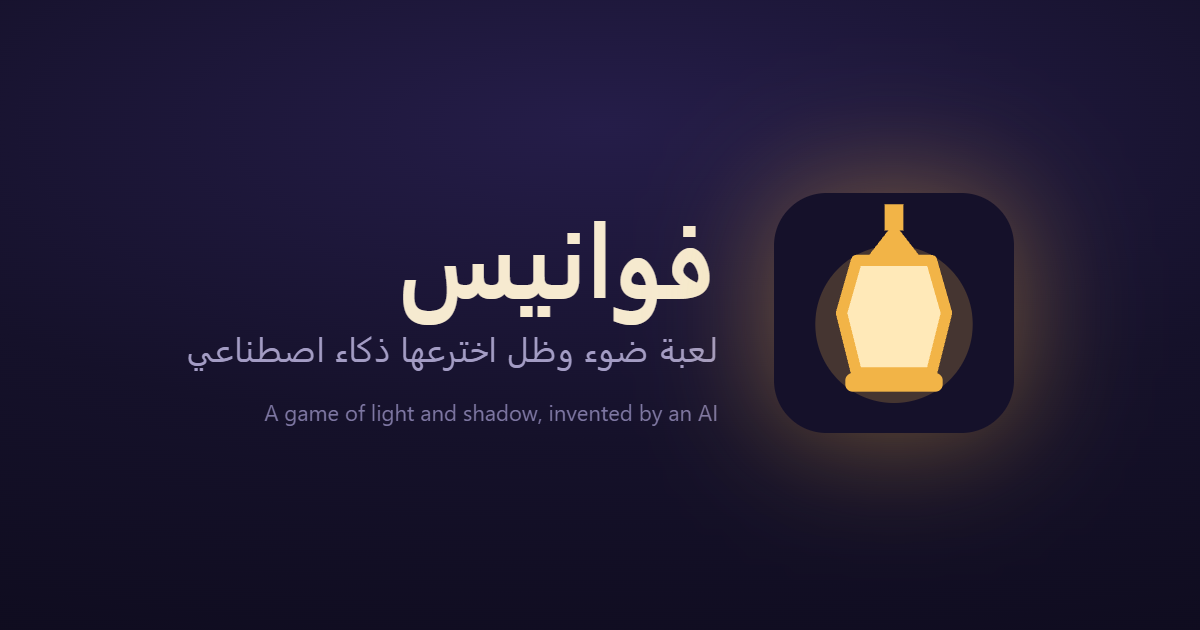
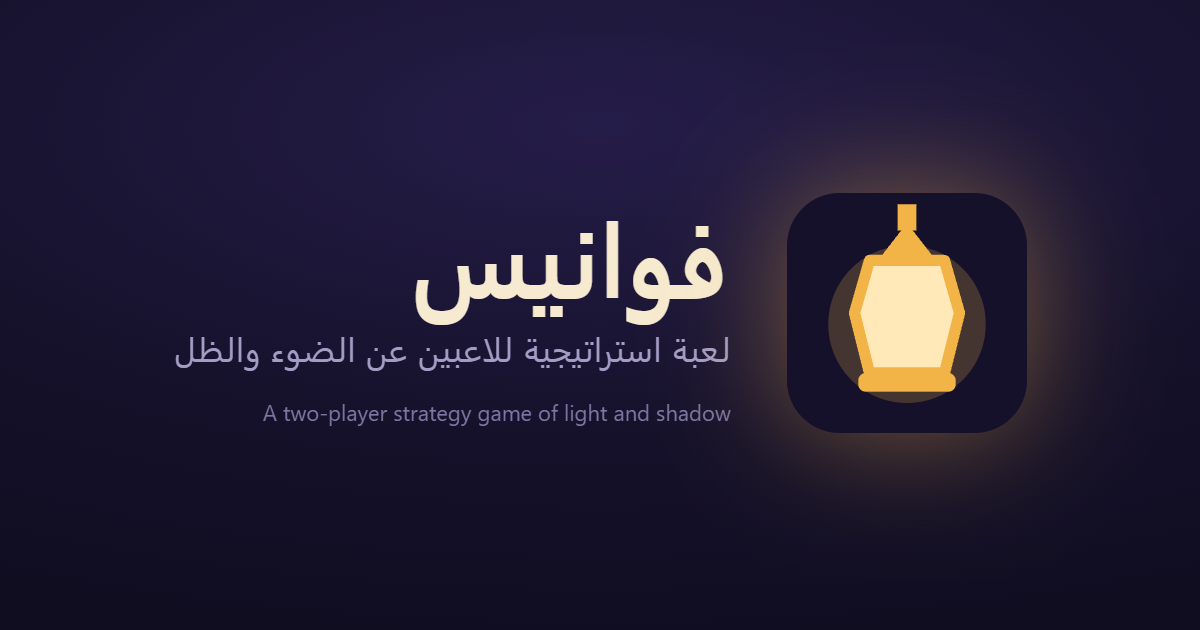
docs: correct Fawanees in-app authorship and metadata

diff --git a/pwa/index.html b/pwa/index.html
@@ -13,7 +13,7 @@
 <meta name="apple-mobile-web-app-title" content="فوانيس">
 <meta property="og:type" content="website">
 <meta property="og:title" content="فوانيس · Fawanees">
-<meta property="og:description" content="لعبة ضوء وظل اخترعها ذكاء اصطناعي · A game of light and shadow, invented by an AI">
+<meta property="og:description" content="لعبة استراتيجية للاعبين عن الضوء والظل · A two-player strategy game of light and shadow">
 <meta property="og:url" content="https://ahmed-r-z-adwan.github.io/fawanees/">
 <meta property="og:image" content="https://ahmed-r-z-adwan.github.io/fawanees/og.png">
 <meta property="og:image:width" content="1200">
@@ -160,7 +160,7 @@ canvas#learnBoard, canvas#puzzleBoard { width: 100%; aspect-ratio: 11 / 12; disp
 <body>
 <div class="app">
   <header>
-    <div class="brand"><h1 data-i18n="title">فوانيس</h1><p data-i18n="tagline">لعبة ضوء وظل اخترعها ذكاء اصطناعي</p></div>
+    <div class="brand"><h1 data-i18n="title">فوانيس</h1><p data-i18n="tagline">لعبة استراتيجية للاعبين عن الضوء والظل</p></div>
     <div class="top-actions">
       <button class="btn" id="btnLearn" data-i18n="learn">تعلّم</button>
       <button class="btn" id="btnPuzzle" data-i18n="puzzles">ألغاز</button>
@@ -206,7 +206,7 @@ canvas#learnBoard, canvas#puzzleBoard { width: 100%; aspect-ratio: 11 / 12; disp
       </div>
     </aside>
   </main>
-  <footer><span data-i18n="credit">صمّم القواعد ووازنها وبرمج الذكاء الاصطناعي: Claude من Anthropic. الفكرة والنشر: أحمد عدوان.</span> <a href="#" id="linkHow" data-i18n="how">كيف صُنعت؟</a></footer>
+  <footer><span data-i18n="credit">طُوّرت الفكرة الأولى بالتعاون بين أحمد عدوان وClaude من Anthropic. نفّذ أحمد معظم الشيفرة وواصل تطوير المشروع، مع مساهمة Claude في بعض التعديلات البنيوية والتحسينات.</span> <a href="#" id="linkHow" data-i18n="how">كيف صُنعت؟</a></footer>
   <div class="install" id="installBar" role="region">
     <span class="txt" id="installText"></span>
     <button class="btn primary" id="installGo"></button>
@@ -1530,9 +1530,9 @@ const reduceMotion = window.matchMedia && matchMedia('(prefers-reduced-motion: r
 // ---------------- i18n ----------------
 const T = {
   ar: {
-    title: 'فوانيس', tagline: 'لعبة ضوء وظل اخترعها ذكاء اصطناعي', learn: 'تعلّم', puzzles: 'ألغاز', rules: 'القواعد', newGame: 'لعبة جديدة', swap: 'خذ فانوسه', pass: 'تمرير', undo: 'تراجع', hint: 'تلميح',
+    title: 'فوانيس', tagline: 'لعبة استراتيجية للاعبين عن الضوء والظل', learn: 'تعلّم', puzzles: 'ألغاز', rules: 'القواعد', newGame: 'لعبة جديدة', swap: 'خذ فانوسه', pass: 'تمرير', undo: 'تراجع', hint: 'تلميح',
     showThoughts: 'أظهر خطة الآلة على اللوح', predict: 'دع الآلة تتوقع حركتي',
-    credit: 'صمّم القواعد ووازنها وبرمج الذكاء الاصطناعي: Claude من Anthropic. الفكرة والنشر: أحمد عدوان.', how: 'كيف صُنعت؟',
+    credit: 'طُوّرت الفكرة الأولى بالتعاون بين أحمد عدوان وClaude من Anthropic. نفّذ أحمد معظم الشيفرة وواصل تطوير المشروع، مع مساهمة Claude في بعض التعديلات البنيوية والتحسينات.', how: 'كيف صُنعت؟',
     mode: 'طريقة اللعب', modeAI: 'ضد الآلة', modePvP: 'لاعبان على نفس الجهاز',
     modeOnline: 'مع صاحبك على جهاز تاني', modeDemo: 'شاهد الآلة ضد نفسها', level: 'مستوى الآلة',
     lv0: 'مبتدئ', lv1: 'ماهر', lv2: 'أستاذ', lv3: 'العرّاف', youPlay: 'أنت تلعب', first: 'أولاً (الذهبي)', second: 'ثانياً (الفيروزي)', cancel: 'إلغاء', start: 'ابدأ',
@@ -1587,7 +1587,7 @@ const T = {
 <li>بعد أول فانوس في اللعبة، يحق للاعب الثاني أن يأخذه لنفسه بدل الرد عليه. لذلك افتتح بحركة متوازنة.</li>
 </ol>
 <p>نصيحة: اضغط أي خانة مرة واحدة لترى الضوء الذي ستكسبه والفوانيس التي ستتحوّل، ثم اضغطها مرة ثانية لتلعب.</p>`,
-    howHtml: `<p>القواعد والاسم والموازنة والذكاء الاصطناعي كلها من صنع Claude، نموذج ذكاء اصطناعي من Anthropic.</p>
+    howHtml: `<p>طُوّرت الفكرة الأولى بالتعاون بين أحمد عدوان وClaude. نفّذ أحمد معظم الشيفرة وواصل تطوير المشروع، مع مساهمة Claude في بعض التعديلات البنيوية والتحسينات.</p>
 <p>بعد تصميم النسخة الأولى من القواعد، لعبت الآلة ضد نفسها آلاف المباريات لاختبارها. هذه بعض الأشياء التي كشفتها التجارب وغيّرت القواعد:</p>
 <ol>
 <li>في النسخة الأولى كان اللاعب الأول يفوز في 72 إلى 86٪ من المباريات.</li>
@@ -1601,9 +1601,9 @@ const T = {
 <p>هذه نسخة تجريبية.</p>`,
   },
   en: {
-    title: 'Fawanees', tagline: 'A game of light and shadow, invented by an AI', learn: 'Learn', puzzles: 'Puzzles', rules: 'Rules', newGame: 'New game', swap: 'Take their lantern', pass: 'Pass', undo: 'Undo', hint: 'Hint',
+    title: 'Fawanees', tagline: 'A two-player strategy game of light and shadow', learn: 'Learn', puzzles: 'Puzzles', rules: 'Rules', newGame: 'New game', swap: 'Take their lantern', pass: 'Pass', undo: 'Undo', hint: 'Hint',
     showThoughts: "Show the machine's plan on the board", predict: 'Let the machine predict my move',
-    credit: 'Rules, balancing and AI by Claude (Anthropic). Idea and publishing by Ahmed Adwan.', how: 'How was it made?',
+    credit: 'Concept developed collaboratively by Ahmed Adwan and Claude (Anthropic). Most implementation by Ahmed Adwan, with selected AI-assisted structural and refinement work.', how: 'How was it made?',
     mode: 'Mode', modeAI: 'Against the machine', modePvP: 'Two players on this device',
     modeOnline: 'With a friend on another device', modeDemo: 'Watch the machine play itself', level: 'Machine level',
     lv0: 'Novice', lv1: 'Skilled', lv2: 'Master', lv3: 'Oracle', youPlay: 'You play', first: 'First (gold)', second: 'Second (turquoise)', cancel: 'Cancel', start: 'Start',
@@ -1658,7 +1658,7 @@ const T = {
 <li>After the first lantern of the game, the second player may take it as their own instead of answering it. So open with a balanced move.</li>
 </ol>
 <p>Tip: tap any cell once to see the light you would gain and the lanterns that would switch, then tap it again to play.</p>`,
-    howHtml: `<p>The rules, the name, the balancing and the AI were all made by Claude, an AI model from Anthropic.</p>
+    howHtml: `<p>The initial concept was developed collaboratively with Claude. Ahmed Adwan implemented most of the code and continued developing the project, with Claude contributing to selected structural changes, refinements, and parts of the development.</p>
 <p>After the first draft of the rules, the machine played itself thousands of times to test them. Some things those games revealed, which changed the rules:</p>
 <ol>
 <li>In the first version, the first player won 72 to 86% of games.</li>

diff --git a/dist/fawanees.html b/dist/fawanees.html
@@ -147,7 +147,7 @@ canvas#learnBoard, canvas#puzzleBoard { width: 100%; aspect-ratio: 11 / 12; disp
 <body>
 <div class="app">
   <header>
-    <div class="brand"><h1 data-i18n="title">فوانيس</h1><p data-i18n="tagline">لعبة ضوء وظل اخترعها ذكاء اصطناعي</p></div>
+    <div class="brand"><h1 data-i18n="title">فوانيس</h1><p data-i18n="tagline">لعبة استراتيجية للاعبين عن الضوء والظل</p></div>
     <div class="top-actions">
       <button class="btn" id="btnLearn" data-i18n="learn">تعلّم</button>
       <button class="btn" id="btnPuzzle" data-i18n="puzzles">ألغاز</button>
@@ -193,7 +193,7 @@ canvas#learnBoard, canvas#puzzleBoard { width: 100%; aspect-ratio: 11 / 12; disp
       </div>
     </aside>
   </main>
-  <footer><span data-i18n="credit">صمّم القواعد ووازنها وبرمج الذكاء الاصطناعي: Claude من Anthropic. الفكرة والنشر: أحمد عدوان.</span> <a href="#" id="linkHow" data-i18n="how">كيف صُنعت؟</a></footer>
+  <footer><span data-i18n="credit">طُوّرت الفكرة الأولى بالتعاون بين أحمد عدوان وClaude من Anthropic. نفّذ أحمد معظم الشيفرة وواصل تطوير المشروع، مع مساهمة Claude في بعض التعديلات البنيوية والتحسينات.</span> <a href="#" id="linkHow" data-i18n="how">كيف صُنعت؟</a></footer>
   <div class="install" id="installBar" role="region">
     <span class="txt" id="installText"></span>
     <button class="btn primary" id="installGo"></button>
@@ -1517,9 +1517,9 @@ const reduceMotion = window.matchMedia && matchMedia('(prefers-reduced-motion: r
 // ---------------- i18n ----------------
 const T = {
   ar: {
-    title: 'فوانيس', tagline: 'لعبة ضوء وظل اخترعها ذكاء اصطناعي', learn: 'تعلّم', puzzles: 'ألغاز', rules: 'القواعد', newGame: 'لعبة جديدة', swap: 'خذ فانوسه', pass: 'تمرير', undo: 'تراجع', hint: 'تلميح',
+    title: 'فوانيس', tagline: 'لعبة استراتيجية للاعبين عن الضوء والظل', learn: 'تعلّم', puzzles: 'ألغاز', rules: 'القواعد', newGame: 'لعبة جديدة', swap: 'خذ فانوسه', pass: 'تمرير', undo: 'تراجع', hint: 'تلميح',
     showThoughts: 'أظهر خطة الآلة على اللوح', predict: 'دع الآلة تتوقع حركتي',
-    credit: 'صمّم القواعد ووازنها وبرمج الذكاء الاصطناعي: Claude من Anthropic. الفكرة والنشر: أحمد عدوان.', how: 'كيف صُنعت؟',
+    credit: 'طُوّرت الفكرة الأولى بالتعاون بين أحمد عدوان وClaude من Anthropic. نفّذ أحمد معظم الشيفرة وواصل تطوير المشروع، مع مساهمة Claude في بعض التعديلات البنيوية والتحسينات.', how: 'كيف صُنعت؟',
     mode: 'طريقة اللعب', modeAI: 'ضد الآلة', modePvP: 'لاعبان على نفس الجهاز',
     modeOnline: 'مع صاحبك على جهاز تاني', modeDemo: 'شاهد الآلة ضد نفسها', level: 'مستوى الآلة',
     lv0: 'مبتدئ', lv1: 'ماهر', lv2: 'أستاذ', lv3: 'العرّاف', youPlay: 'أنت تلعب', first: 'أولاً (الذهبي)', second: 'ثانياً (الفيروزي)', cancel: 'إلغاء', start: 'ابدأ',
@@ -1574,7 +1574,7 @@ const T = {
 <li>بعد أول فانوس في اللعبة، يحق للاعب الثاني أن يأخذه لنفسه بدل الرد عليه. لذلك افتتح بحركة متوازنة.</li>
 </ol>
 <p>نصيحة: اضغط أي خانة مرة واحدة لترى الضوء الذي ستكسبه والفوانيس التي ستتحوّل، ثم اضغطها مرة ثانية لتلعب.</p>`,
-    howHtml: `<p>القواعد والاسم والموازنة والذكاء الاصطناعي كلها من صنع Claude، نموذج ذكاء اصطناعي من Anthropic.</p>
+    howHtml: `<p>طُوّرت الفكرة الأولى بالتعاون بين أحمد عدوان وClaude. نفّذ أحمد معظم الشيفرة وواصل تطوير المشروع، مع مساهمة Claude في بعض التعديلات البنيوية والتحسينات.</p>
 <p>بعد تصميم النسخة الأولى من القواعد، لعبت الآلة ضد نفسها آلاف المباريات لاختبارها. هذه بعض الأشياء التي كشفتها التجارب وغيّرت القواعد:</p>
 <ol>
 <li>في النسخة الأولى كان اللاعب الأول يفوز في 72 إلى 86٪ من المباريات.</li>
@@ -1588,9 +1588,9 @@ const T = {
 <p>هذه نسخة تجريبية.</p>`,
   },
   en: {
-    title: 'Fawanees', tagline: 'A game of light and shadow, invented by an AI', learn: 'Learn', puzzles: 'Puzzles', rules: 'Rules', newGame: 'New game', swap: 'Take their lantern', pass: 'Pass', undo: 'Undo', hint: 'Hint',
+    title: 'Fawanees', tagline: 'A two-player strategy game of light and shadow', learn: 'Learn', puzzles: 'Puzzles', rules: 'Rules', newGame: 'New game', swap: 'Take their lantern', pass: 'Pass', undo: 'Undo', hint: 'Hint',
     showThoughts: "Show the machine's plan on the board", predict: 'Let the machine predict my move',
-    credit: 'Rules, balancing and AI by Claude (Anthropic). Idea and publishing by Ahmed Adwan.', how: 'How was it made?',
+    credit: 'Concept developed collaboratively by Ahmed Adwan and Claude (Anthropic). Most implementation by Ahmed Adwan, with selected AI-assisted structural and refinement work.', how: 'How was it made?',
     mode: 'Mode', modeAI: 'Against the machine', modePvP: 'Two players on this device',
     modeOnline: 'With a friend on another device', modeDemo: 'Watch the machine play itself', level: 'Machine level',
     lv0: 'Novice', lv1: 'Skilled', lv2: 'Master', lv3: 'Oracle', youPlay: 'You play', first: 'First (gold)', second: 'Second (turquoise)', cancel: 'Cancel', start: 'Start',
@@ -1645,7 +1645,7 @@ const T = {
 <li>After the first lantern of the game, the second player may take it as their own instead of answering it. So open with a balanced move.</li>
 </ol>
 <p>Tip: tap any cell once to see the light you would gain and the lanterns that would switch, then tap it again to play.</p>`,
-    howHtml: `<p>The rules, the name, the balancing and the AI were all made by Claude, an AI model from Anthropic.</p>
+    howHtml: `<p>The initial concept was developed collaboratively with Claude. Ahmed Adwan implemented most of the code and continued developing the project, with Claude contributing to selected structural changes, refinements, and parts of the development.</p>
 <p>After the first draft of the rules, the machine played itself thousands of times to test them. Some things those games revealed, which changed the rules:</p>
 <ol>
 <li>In the first version, the first player won 72 to 86% of games.</li>

diff --git a/src/template.html b/src/template.html
@@ -147,7 +147,7 @@ canvas#learnBoard, canvas#puzzleBoard { width: 100%; aspect-ratio: 11 / 12; disp
 <body>
 <div class="app">
   <header>
-    <div class="brand"><h1 data-i18n="title">فوانيس</h1><p data-i18n="tagline">لعبة ضوء وظل اخترعها ذكاء اصطناعي</p></div>
+    <div class="brand"><h1 data-i18n="title">فوانيس</h1><p data-i18n="tagline">لعبة استراتيجية للاعبين عن الضوء والظل</p></div>
     <div class="top-actions">
       <button class="btn" id="btnLearn" data-i18n="learn">تعلّم</button>
       <button class="btn" id="btnPuzzle" data-i18n="puzzles">ألغاز</button>
@@ -193,7 +193,7 @@ canvas#learnBoard, canvas#puzzleBoard { width: 100%; aspect-ratio: 11 / 12; disp
       </div>
     </aside>
   </main>
-  <footer><span data-i18n="credit">صمّم القواعد ووازنها وبرمج الذكاء الاصطناعي: Claude من Anthropic. الفكرة والنشر: أحمد عدوان.</span> <a href="#" id="linkHow" data-i18n="how">كيف صُنعت؟</a></footer>
+  <footer><span data-i18n="credit">طُوّرت الفكرة الأولى بالتعاون بين أحمد عدوان وClaude من Anthropic. نفّذ أحمد معظم الشيفرة وواصل تطوير المشروع، مع مساهمة Claude في بعض التعديلات البنيوية والتحسينات.</span> <a href="#" id="linkHow" data-i18n="how">كيف صُنعت؟</a></footer>
   <div class="install" id="installBar" role="region">
     <span class="txt" id="installText"></span>
     <button class="btn primary" id="installGo"></button>
@@ -355,9 +355,9 @@ const reduceMotion = window.matchMedia && matchMedia('(prefers-reduced-motion: r
 // ---------------- i18n ----------------
 const T = {
   ar: {
-    title: 'فوانيس', tagline: 'لعبة ضوء وظل اخترعها ذكاء اصطناعي', learn: 'تعلّم', puzzles: 'ألغاز', rules: 'القواعد', newGame: 'لعبة جديدة', swap: 'خذ فانوسه', pass: 'تمرير', undo: 'تراجع', hint: 'تلميح',
+    title: 'فوانيس', tagline: 'لعبة استراتيجية للاعبين عن الضوء والظل', learn: 'تعلّم', puzzles: 'ألغاز', rules: 'القواعد', newGame: 'لعبة جديدة', swap: 'خذ فانوسه', pass: 'تمرير', undo: 'تراجع', hint: 'تلميح',
     showThoughts: 'أظهر خطة الآلة على اللوح', predict: 'دع الآلة تتوقع حركتي',
-    credit: 'صمّم القواعد ووازنها وبرمج الذكاء الاصطناعي: Claude من Anthropic. الفكرة والنشر: أحمد عدوان.', how: 'كيف صُنعت؟',
+    credit: 'طُوّرت الفكرة الأولى بالتعاون بين أحمد عدوان وClaude من Anthropic. نفّذ أحمد معظم الشيفرة وواصل تطوير المشروع، مع مساهمة Claude في بعض التعديلات البنيوية والتحسينات.', how: 'كيف صُنعت؟',
     mode: 'طريقة اللعب', modeAI: 'ضد الآلة', modePvP: 'لاعبان على نفس الجهاز',
     modeOnline: 'مع صاحبك على جهاز تاني', modeDemo: 'شاهد الآلة ضد نفسها', level: 'مستوى الآلة',
     lv0: 'مبتدئ', lv1: 'ماهر', lv2: 'أستاذ', lv3: 'العرّاف', youPlay: 'أنت تلعب', first: 'أولاً (الذهبي)', second: 'ثانياً (الفيروزي)', cancel: 'إلغاء', start: 'ابدأ',
@@ -412,7 +412,7 @@ const T = {
 <li>بعد أول فانوس في اللعبة، يحق للاعب الثاني أن يأخذه لنفسه بدل الرد عليه. لذلك افتتح بحركة متوازنة.</li>
 </ol>
 <p>نصيحة: اضغط أي خانة مرة واحدة لترى الضوء الذي ستكسبه والفوانيس التي ستتحوّل، ثم اضغطها مرة ثانية لتلعب.</p>`,
-    howHtml: `<p>القواعد والاسم والموازنة والذكاء الاصطناعي كلها من صنع Claude، نموذج ذكاء اصطناعي من Anthropic.</p>
+    howHtml: `<p>طُوّرت الفكرة الأولى بالتعاون بين أحمد عدوان وClaude. نفّذ أحمد معظم الشيفرة وواصل تطوير المشروع، مع مساهمة Claude في بعض التعديلات البنيوية والتحسينات.</p>
 <p>بعد تصميم النسخة الأولى من القواعد، لعبت الآلة ضد نفسها آلاف المباريات لاختبارها. هذه بعض الأشياء التي كشفتها التجارب وغيّرت القواعد:</p>
 <ol>
 <li>في النسخة الأولى كان اللاعب الأول يفوز في 72 إلى 86٪ من المباريات.</li>
@@ -426,9 +426,9 @@ const T = {
 <p>هذه نسخة تجريبية.</p>`,
   },
   en: {
-    title: 'Fawanees', tagline: 'A game of light and shadow, invented by an AI', learn: 'Learn', puzzles: 'Puzzles', rules: 'Rules', newGame: 'New game', swap: 'Take their lantern', pass: 'Pass', undo: 'Undo', hint: 'Hint',
+    title: 'Fawanees', tagline: 'A two-player strategy game of light and shadow', learn: 'Learn', puzzles: 'Puzzles', rules: 'Rules', newGame: 'New game', swap: 'Take their lantern', pass: 'Pass', undo: 'Undo', hint: 'Hint',
     showThoughts: "Show the machine's plan on the board", predict: 'Let the machine predict my move',
-    credit: 'Rules, balancing and AI by Claude (Anthropic). Idea and publishing by Ahmed Adwan.', how: 'How was it made?',
+    credit: 'Concept developed collaboratively by Ahmed Adwan and Claude (Anthropic). Most implementation by Ahmed Adwan, with selected AI-assisted structural and refinement work.', how: 'How was it made?',
     mode: 'Mode', modeAI: 'Against the machine', modePvP: 'Two players on this device',
     modeOnline: 'With a friend on another device', modeDemo: 'Watch the machine play itself', level: 'Machine level',
     lv0: 'Novice', lv1: 'Skilled', lv2: 'Master', lv3: 'Oracle', youPlay: 'You play', first: 'First (gold)', second: 'Second (turquoise)', cancel: 'Cancel', start: 'Start',
@@ -483,7 +483,7 @@ const T = {
 <li>After the first lantern of the game, the second player may take it as their own instead of answering it. So open with a balanced move.</li>
 </ol>
 <p>Tip: tap any cell once to see the light you would gain and the lanterns that would switch, then tap it again to play.</p>`,
-    howHtml: `<p>The rules, the name, the balancing and the AI were all made by Claude, an AI model from Anthropic.</p>
+    howHtml: `<p>The initial concept was developed collaboratively with Claude. Ahmed Adwan implemented most of the code and continued developing the project, with Claude contributing to selected structural changes, refinements, and parts of the development.</p>
 <p>After the first draft of the rules, the machine played itself thousands of times to test them. Some things those games revealed, which changed the rules:</p>
 <ol>
 <li>In the first version, the first player won 72 to 86% of games.</li>

diff --git a/test/tools/makeIcons.js b/test/tools/makeIcons.js
@@ -91,8 +91,8 @@ function packIco(pngs) {
 </style>
 <div>${svg}</div>
 <div class="t"><h1>&#x641;&#x648;&#x627;&#x646;&#x64a;&#x633;</h1>
-<p>&#x644;&#x639;&#x628;&#x629; &#x636;&#x648;&#x621; &#x648;&#x638;&#x644; &#x627;&#x62e;&#x62a;&#x631;&#x639;&#x647;&#x627; &#x630;&#x643;&#x627;&#x621; &#x627;&#x635;&#x637;&#x646;&#x627;&#x639;&#x64a;</p>
-<p class="c">A game of light and shadow, invented by an AI</p></div>`, { waitUntil: 'load' });
+<p>لعبة استراتيجية للاعبين عن الضوء والظل</p>
+<p class="c">A two-player strategy game of light and shadow</p></div>`, { waitUntil: 'load' });
     const ogBuf = await og.screenshot({ type: 'png' });
     fs.writeFileSync(path.join(root, 'pwa', 'og.png'), ogBuf);
     await og.close();

diff --git a/pwa/sw.js b/pwa/sw.js
@@ -1,7 +1,7 @@
 // Service worker for the installable copy. The whole game is one HTML file, so "offline" means
 // keeping that file, the manifest and the icons; the fonts are picked up the first time they load.
 // VERSION is rewritten by build.py from a hash of the page, so a new build replaces the old cache.
-const VERSION = '6eb860c87dc6';
+const VERSION = '71e3c1dc6322';
 const SHELL = `fawanees-${VERSION}`;
 const FONTS = 'fawanees-fonts';
 const SHELL_FILES = ['./', './index.html', './manifest.webmanifest',

diff --git a/build.py b/build.py
@@ -36,7 +36,7 @@ PWA_HEAD = (
     # Without these a shared link is a bare box in a chat app rather than a card.
     '<meta property="og:type" content="website">\n'
     '<meta property="og:title" content="فوانيس · Fawanees">\n'
-    '<meta property="og:description" content="لعبة ضوء وظل اخترعها ذكاء اصطناعي · A game of light and shadow, invented by an AI">\n'
+    '<meta property="og:description" content="لعبة استراتيجية للاعبين عن الضوء والظل · A two-player strategy game of light and shadow">\n'
     f'<meta property="og:url" content="{SITE}">\n'
     f'<meta property="og:image" content="{SITE}og.png">\n'
     '<meta property="og:image:width" content="1200">\n'
